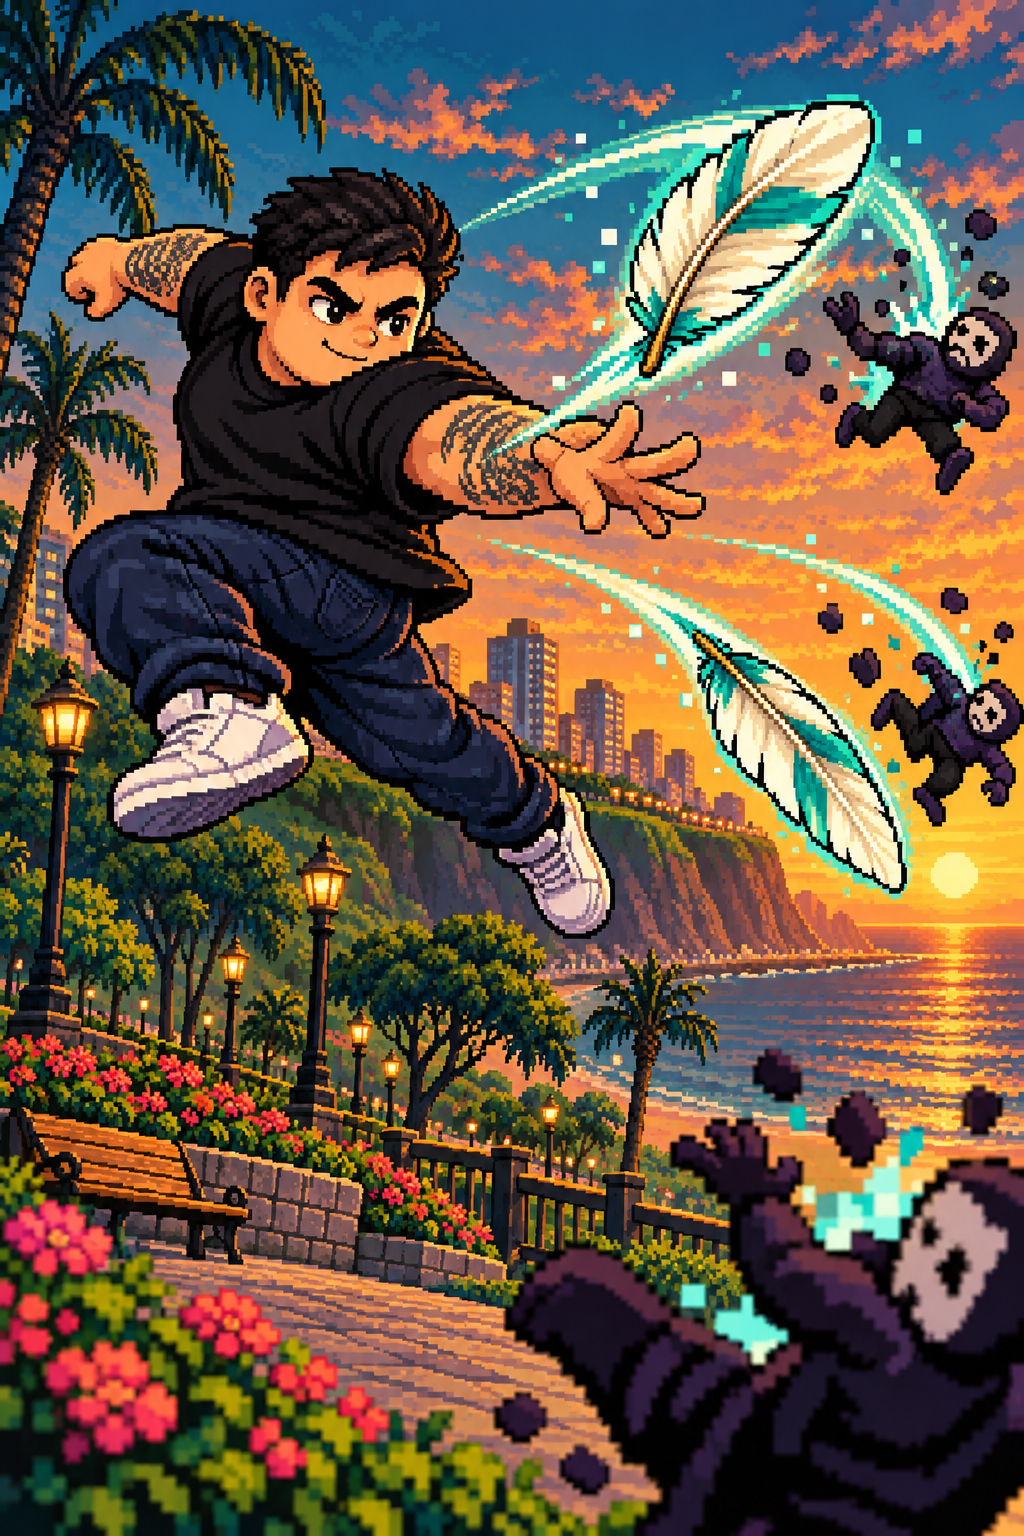
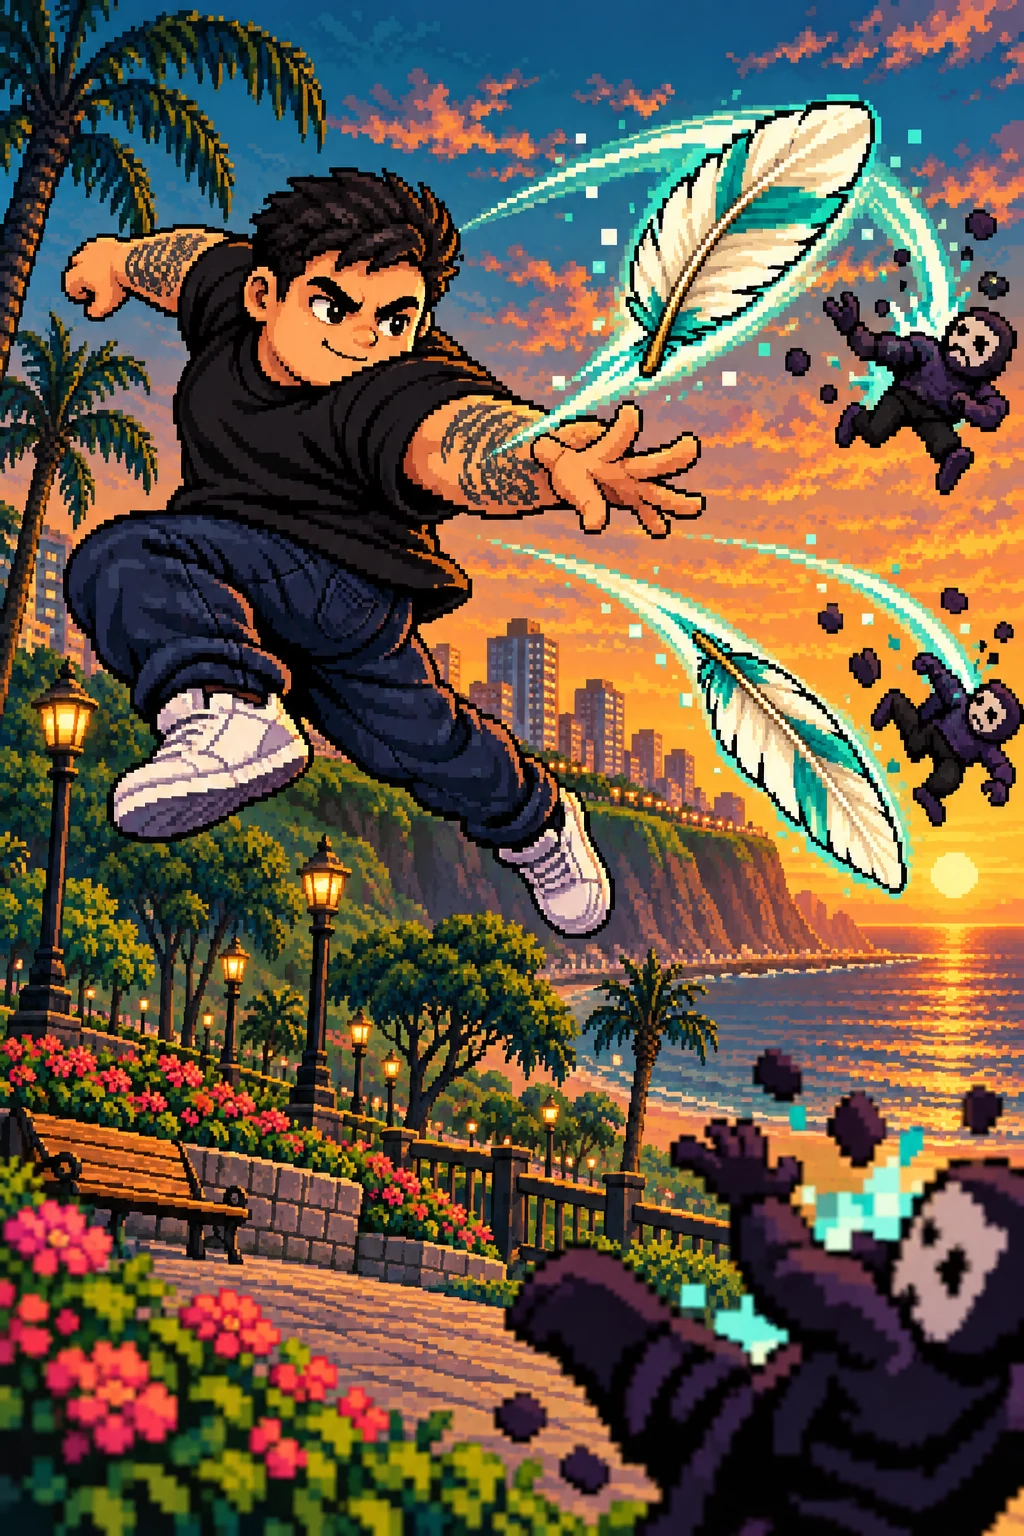
Keep full-art card assets within deploy limit

diff --git a/scripts/optimize-assets.py b/scripts/optimize-assets.py
@@ -6,7 +6,10 @@ ROOT = Path(__file__).resolve().parents[1]
 parser = argparse.ArgumentParser()
 parser.add_argument('--check', action='store_true')
 parser.add_argument('--only', nargs='+', help='Process selected repository-relative PNG paths and merge their records into the asset audit.')
+parser.add_argument('--quality', type=int, help='Encode selected art as lossy WebP at this quality (1–100) to keep the deployment archive small.')
 args = parser.parse_args()
+if args.quality is not None and not 1 <= args.quality <= 100:
+    parser.error('--quality must be between 1 and 100')
 rows = []
 sources = [ROOT / name for name in args.only] if args.only else sorted((ROOT / 'public/assets').rglob('*.png'))
 asset_root = (ROOT / 'public/assets').resolve()
@@ -21,18 +24,25 @@ for source in sources:
     target = source.with_suffix('.webp')
     with Image.open(source) as original:
         if not args.check:
-            original.save(target, 'WEBP', lossless=True, method=6, exact=True)
+            if args.quality is None:
+                original.save(target, 'WEBP', lossless=True, method=6, exact=True)
+            else:
+                original.save(target, 'WEBP', quality=args.quality, method=6)
         if not target.exists():
             continue
         with Image.open(target) as optimized:
             assert optimized.size == original.size, source
             pixels = original.convert('RGBA').tobytes()
-            assert optimized.convert('RGBA').tobytes() == pixels, f'Pixel mismatch: {source}'
+            if args.quality is None:
+                assert optimized.convert('RGBA').tobytes() == pixels, f'Pixel mismatch: {source}'
         if target.stat().st_size >= source.stat().st_size:
             if not args.check:
                 target.unlink()
             continue
-        rows.append(dict(source=source.relative_to(ROOT/'public').as_posix(), output=target.relative_to(ROOT/'public').as_posix(), width=original.width, height=original.height, originalBytes=source.stat().st_size, optimizedBytes=target.stat().st_size, sourceSha256=hashlib.sha256(source.read_bytes()).hexdigest(), outputSha256=hashlib.sha256(target.read_bytes()).hexdigest(), rgbaSha256=hashlib.sha256(pixels).hexdigest()))
+        row=dict(source=source.relative_to(ROOT/'public').as_posix(), output=target.relative_to(ROOT/'public').as_posix(), width=original.width, height=original.height, originalBytes=source.stat().st_size, optimizedBytes=target.stat().st_size, sourceSha256=hashlib.sha256(source.read_bytes()).hexdigest(), outputSha256=hashlib.sha256(target.read_bytes()).hexdigest(), rgbaSha256=hashlib.sha256(pixels).hexdigest())
+        if args.quality is not None:
+            row['quality']=args.quality
+        rows.append(row)
 previews = []
 preview_sources = sorted((ROOT / 'public/assets/maps').glob('*-v1.png')) if not args.only else []
 for source in preview_sources:
@@ -52,10 +62,11 @@ if args.only:
     indexed.update({row['source']:row for row in rows})
     rows = sorted(indexed.values(), key=lambda row:row['source'])
     previews = previous['previews']
-report = {'format':'WebP lossless, exact RGBA comparison', 'assets':rows, 'previews':previews, 'originalBytes':sum(r['originalBytes'] for r in rows), 'optimizedBytes':sum(r['optimizedBytes'] for r in rows)}
+report = {'format':'WebP lossless by default; selected assets may record lossy quality', 'assets':rows, 'previews':previews, 'originalBytes':sum(r['originalBytes'] for r in rows), 'optimizedBytes':sum(r['optimizedBytes'] for r in rows)}
 if args.check:
     assert json.loads(path.read_text(encoding='utf-8')) == report, 'Report mismatch'
 else:
     path.write_text(json.dumps(report, indent=2)+'\n', encoding='utf-8')
 print(json.dumps({k:v for k,v in report.items() if k!='assets'}))
-print(f'{len(rows)} images verified pixel for pixel')
+lossy=sum('quality' in row for row in rows)
+print(f'{len(rows)} images checked: {len(rows)-lossy} lossless pixel matches, {lossy} lossy assets verified by dimensions and SHA-256')

diff --git a/docs/GAME_DESIGN.md b/docs/GAME_DESIGN.md
@@ -445,7 +445,7 @@ La mochila es compartida entre personajes, tiene hasta 99 unidades por objeto y 
 El esquema local v2 incorpora inventario, preparados y recibos, leyendo también los guardados v1 y conservando saldo, mejoras y marcas. Mantiene la clave local existente; al escribir migra a v2. Las versiones antiguas rechazan ese formato en lugar de sobrescribir la mochila. P.Supply reutiliza P.Meta.transaction y su bloqueo entre pestañas; compra, preparación y consumo validan cantidad, saldo, cupos y modo antes de persistir. El juego espera sin avanzar reloj mientras confirma la mochila; un fallo permite reintentar, conservar objetos y jugar o volver al menú. Nada se aplica si el consumo no queda confirmado. No se distribuyen controles de QA.
 
 Ajuste Tribunal: entrada comparte el layout de Kingteka (40 % ancho, 82 % alto, origen vertical 8 %) y dura 1,3 s; tribunal 3,4 s, total 4,7 s. El antebrazo del juez gira como una pieza rígida desde el codo y el mango usa exactamente el mismo punto de agarre, tambien en el acercamiento. El impacto se calibra contra el bloque de madera. Fujimori sentado levanta el dedo durante la frase y lo baja antes del golpe; la burbuja queda al lado para no ocultar el gesto.
-Subida de nivel: tres tarjetas y una cuarta ocasional con icono, categoría, rareza, nombre, efecto, comparación numérica y una vista previa animada. Común, rara, épica y legendaria tienen marcos propios sobre la paleta carbón, crema, coral y latón. Al revelar, rara emite un brillo turquesa, épica uno violeta y legendaria un barrido dorado de izquierda a derecha con un pulso de marco; común solo gira. Son efectos cosméticos de una sola ejecución, desactivados con `prefers-reduced-motion`; no alteran las estadísticas ni la probabilidad. Kingteka usa full art pixel art en todo el frente de la carta —escopeta, plumas guiadas o golpe frontal— y superpone categoría y efecto en una placa inferior. Cada imagen se solicita al crear la elección; PNG originales y WebP lossless están en `public/assets/cards/`; el build evita empaquetar ambos formatos. Prompts: `docs/kingteka-card-art-prompts.json`. La elección produce impacto, destello e icono viajando al personaje; evoluciones y combos reciben presentación completa. Cooperativo conserva la espera por ambos jugadores.
+Subida de nivel: tres tarjetas y una cuarta ocasional con icono, categoría, rareza, nombre, efecto, comparación numérica y una vista previa animada. Común, rara, épica y legendaria tienen marcos propios sobre la paleta carbón, crema, coral y latón. Al revelar, rara emite un brillo turquesa, épica uno violeta y legendaria un barrido dorado de izquierda a derecha con un pulso de marco; común solo gira. Son efectos cosméticos de una sola ejecución, desactivados con `prefers-reduced-motion`; no alteran las estadísticas ni la probabilidad. Kingteka usa full art pixel art en todo el frente de la carta —escopeta, plumas guiadas o golpe frontal— y superpone categoría y efecto en una placa inferior. Cada imagen se solicita al crear la elección; los PNG maestros se conservan en `public/assets/cards/` y las copias WebP de calidad 88 que carga el juego reducen el paquete descargable. El build evita empaquetar ambos formatos. Prompts: `docs/kingteka-card-art-prompts.json`. La elección produce impacto, destello e icono viajando al personaje; evoluciones y combos reciben presentación completa. Cooperativo conserva la espera por ambos jugadores.
 
 Minijefes: conos y luces ámbar, sombras/plumas y símbolos/polvo identifican el combate en su mapa, sin añadir colisiones inesperadas. Se desvanecen durante la derrota. Tras terminar el combo hay 1,5 s de agotamiento, sin daño por contacto y con +35 % de daño recibido. Un choque corta la cadena y concede 2 s. Las plumas se bloquean con cobertura; la onda del huaco exige salir del radio avisado, incluso detrás de paredes.
 ## Evolución de minions

diff --git a/README.md b/README.md
@@ -261,7 +261,7 @@ Campo de Marte responde durante toda la partida, no solamente al desenlace de El
 Cada uno de los 18 personajes conserva su arma inicial y tiene una evolución exclusiva, disponible mediante elección con rango 5 y nivel 8. «Habilidades y evoluciones» en la selección y «Habilidades» en la partida permiten recorrer personajes, consultar cinco rangos, requisitos, efectos y apoyos. Verde indica rangos obtenidos en la partida actual. La consulta pausa el individual; en cooperativo detiene únicamente la entrada local y avisa que la sala continúa. Escape y Cerrar vuelven al estado previo; las elecciones del servidor tienen prioridad.
 
 ### Prototipo de arsenal de Kingteka
-Kingteka empieza con una escopeta corta de cuatro perdigones; su caída de daño mantiene el impacto cerca. En nivel 2 puede desbloquear Gallinazo, que lanza dos plumas especiales guiadas y perforantes; en nivel 4 puede desbloquear el golpe de cuerpo, físico y frontal, con empuje y cadencia pausada. `1`, `2` y `3` cambian de arma durante la partida, también desde los botones del HUD. Durante una subida de nivel, esas teclas siguen escogiendo tarjeta. Los rangos son independientes por arma, mejoran daño, alcance y cadencia y tienen requisitos escalonados; el arma activa recibe la tarjeta de arsenal cada dos niveles. La Escopeta Contra requiere rango 5 y nivel 14. El cambio funciona en cooperativo con autoridad del servidor. Las cartas de subida de nivel de Kingteka usan full art pixel art con poses distintas: descarga de escopeta, plumas guiadas de Gallinazo o golpe frontal. La ilustración ocupa el frente completo; categoría, efecto y comparación quedan en una placa inferior, y la rareza conserva su destello. Fuentes, prompts y WebP: [Kingteka card art](docs/kingteka-card-art-prompts.json). Balance de las tres armas y partidas completas: [KINGTEKA_ARSENAL_BALANCE](docs/KINGTEKA_ARSENAL_BALANCE.md).
+Kingteka empieza con una escopeta corta de cuatro perdigones; su caída de daño mantiene el impacto cerca. En nivel 2 puede desbloquear Gallinazo, que lanza dos plumas especiales guiadas y perforantes; en nivel 4 puede desbloquear el golpe de cuerpo, físico y frontal, con empuje y cadencia pausada. `1`, `2` y `3` cambian de arma durante la partida, también desde los botones del HUD. Durante una subida de nivel, esas teclas siguen escogiendo tarjeta. Los rangos son independientes por arma, mejoran daño, alcance y cadencia y tienen requisitos escalonados; el arma activa recibe la tarjeta de arsenal cada dos niveles. La Escopeta Contra requiere rango 5 y nivel 14. El cambio funciona en cooperativo con autoridad del servidor. Las cartas de subida de nivel de Kingteka usan full art pixel art con poses distintas: descarga de escopeta, plumas guiadas de Gallinazo o golpe frontal. La ilustración ocupa el frente completo; categoría, efecto y comparación quedan en una placa inferior, y la rareza conserva su destello. El juego carga WebP a calidad 88 para respetar el límite del paquete publicado; los PNG maestros y prompts se conservan en [Kingteka card art](docs/kingteka-card-art-prompts.json). Balance de las tres armas y partidas completas: [KINGTEKA_ARSENAL_BALANCE](docs/KINGTEKA_ARSENAL_BALANCE.md).
 
 - cristorata: **Directo encadenado** — Dos micrófonos de retorno enlazan hasta tres rivales con sonido.
 - cuy: **Terremoto del cuy** — Una onda completa empuja y deja una zona de temblor a tus pies.

diff --git a/docs/ASSETS.md b/docs/ASSETS.md
@@ -43,7 +43,7 @@ Los PNG originales se conservan como fuentes. El navegador y el build usan copia
 Para añadir una imagen sin regenerar los demás recursos, ejecutar `python scripts/optimize-assets.py --only public/assets/ruta/archivo.png`; agrega su WebP lossless y actualiza el manifiesto existente. El control integral continúa siendo `python scripts/optimize-assets.py --check`.
 
 ## Cartas full art de Kingteka
-`public/assets/cards/` conserva las ilustraciones full art PNG originales y sus copias WebP para las cartas de escopeta, Gallinazo y golpe de cuerpo. El arte llena el frente de la carta y una placa inferior mantiene legibles el nombre y el efecto. Prompts y poses: `docs/kingteka-card-art-prompts.json`.
+`public/assets/cards/` conserva las ilustraciones full art PNG maestras y sus copias WebP a calidad 88 para las cartas de escopeta, Gallinazo y golpe de cuerpo. La compresión con pérdida moderada mantiene el tamaño del paquete dentro del límite de despliegue; el arte llena el frente de la carta y una placa inferior mantiene legibles el nombre y el efecto. Generar o verificar estos recursos con `python scripts/optimize-assets.py --quality 88 --only public/assets/cards/kingteka-shotgun-fullart-v1.png public/assets/cards/kingteka-gallinazo-fullart-v1.png public/assets/cards/kingteka-golpe-fullart-v1.png` y añadir `--check` para verificar hashes y dimensiones. Prompts y poses: `docs/kingteka-card-art-prompts.json`.
 
 Gallinazo del Caos: public/assets/bosses/gallinazo-atlas-v1.png, seis poses en tres columnas y dos filas, fondo alfa. Techos de Lima: public/assets/arenas/rooftops-v1.png y su versión nocturna coherente public/assets/arenas/rooftops-night-v2.png / .webp. La versión nocturna fue creada con image_gen integrado tomando la azotea original como geometría y el panorama de Lima como referencia cromática; conserva la perspectiva elevada y evita edificios debajo del piso jugable. El panorama experimental permanece como fuente archivada y no se distribuye. Se conserva el dibujo de los jefes anteriores.
 
